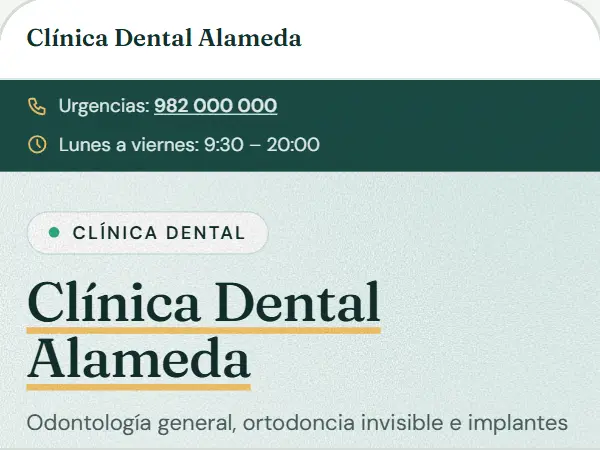
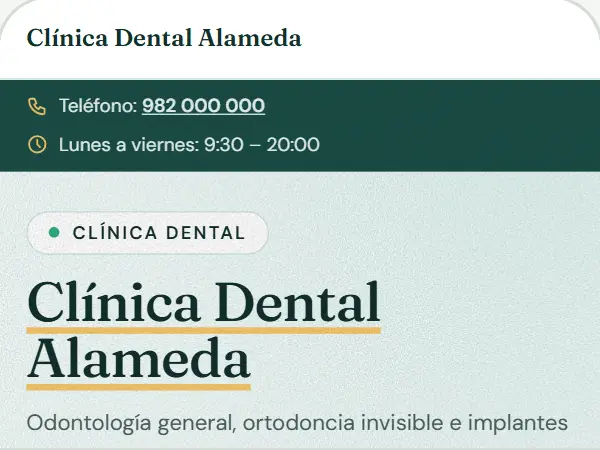
Sillón sin promesas que no vienen de los datos; foco visible en los botones recortados de Plano

Changed region(s): [[0.09, 0.2178, 0.48, 0.28]]

diff --git a/src/features/servicios/creativas/sillon.ts b/src/features/servicios/creativas/sillon.ts
@@ -4,7 +4,7 @@ import { lema, fotoO } from './piezas';
 /*
  * Adaptado de la plantilla «Clinic» de Freeframe (licencia MIT, (c) 2026 Freeframe; ver
  * licencias/freeframe-templates.txt): clínica tranquila en verde agua, titular con remate
- * (Fraunces), cinta de urgencias, gabinete ilustrado con el sillón, ventana en arco y plantas, y
+ * (Fraunces), cinta con el teléfono, gabinete ilustrado con el sillón, ventana en arco y plantas, y
  * dos tarjetas flotantes con lo que más se pregunta. Reescrito para el contrato de diseños de autor
  * (HTML + CSS con ámbito, sin JavaScript); la ilustración es la de la plantilla, con los id prefijados.
  */
@@ -44,12 +44,12 @@ export const sillon: Diseno = {
     const { d, esc } = c;
     const h = c.horario[0];
     const cinta = c.tel || h
-      ? `<div class="w-cinta"><div class="w-in w-cinta-in">${c.tel ? `<p>${c.icono('tel')}<span>Urgencias: ${c.grande}</span></p>` : ''}${h ? `<p>${c.icono('reloj')}<span>${esc(h[0] || 'Consulta')}: ${esc(h[1])}</span></p>` : ''}</div></div>`
+      ? `<div class="w-cinta"><div class="w-in w-cinta-in">${c.tel ? `<p>${c.icono('tel')}<span>Teléfono: ${c.grande}</span></p>` : ''}${h ? `<p>${c.icono('reloj')}<span>${esc(h[0] || 'Consulta')}: ${esc(h[1])}</span></p>` : ''}</div></div>`
       : '';
     const ante = d.sector ? `<p class="w-sector"><span aria-hidden="true"></span>${esc(d.sector)}</p>` : '';
     const s = d.servicios?.[0];
     const t1 = s ? `<div class="w-flota w-flota-1"><p class="w-flota-t">${esc(s.nombre)}</p>${s.precio ? `<p>${esc(s.precio)}</p>` : ''}</div>` : '';
-    const t2 = h ? `<div class="w-flota w-flota-2"><span class="w-flota-punto" aria-hidden="true"></span><div><p class="w-flota-t">Próxima cita libre</p><p>${esc(h[0] || 'Esta semana')}</p></div></div>` : '';
+    const t2 = h ? `<div class="w-flota w-flota-2"><span class="w-flota-punto" aria-hidden="true"></span><div><p class="w-flota-t">Horario de consulta</p><p>${esc(h[0] ? `${h[0]}: ${h[1]}` : h[1])}</p></div></div>` : '';
     return `<header class="w-cab w-cab-sillon${c.foto ? '' : ' w-sin-foto'}">${cinta}<div class="w-in w-cab-in"><div class="w-cab-txt">
 ${ante}<h1>${esc(d.negocio)}</h1>
 ${lema(c, 'w-lema-bloque')}${c.bloqueAcciones}

diff --git a/src/features/servicios/creativas/plano.ts b/src/features/servicios/creativas/plano.ts
@@ -61,6 +61,7 @@ ${lema(c, 'w-lema-bloque')}${c.bloqueAcciones}
   },
   css: `
 .w-d-plano{--w-fondo:#f3f2ee;--w-papel:#fff;--w-tinta:#121316;--w-suave:#44474e;--w-borde:#d4d2cb;--w-panel:#e9e7e0;--w-placa:#ffd21f;--w-placa-h:#f0bf00;--w-acero:#545961;--w-r:0;--w-esp:24px;--w-corte:polygon(14px 0,100% 0,100% calc(100% - 14px),calc(100% - 14px) 100%,0 100%,0 14px)}
+.w-d-plano .w-boton:focus-visible{outline:3px solid currentColor;outline-offset:-7px}
 .w-d-plano .w-nav{background:var(--w-tinta);color:#fff;border-bottom:0}
 .w-d-plano .w-nav-marca{font-family:var(--w-ft-titulo);font-weight:800;text-transform:uppercase;letter-spacing:.02em}
 .w-d-plano .w-nav .w-boton{color:#fff;border-color:#b9bcc2}
